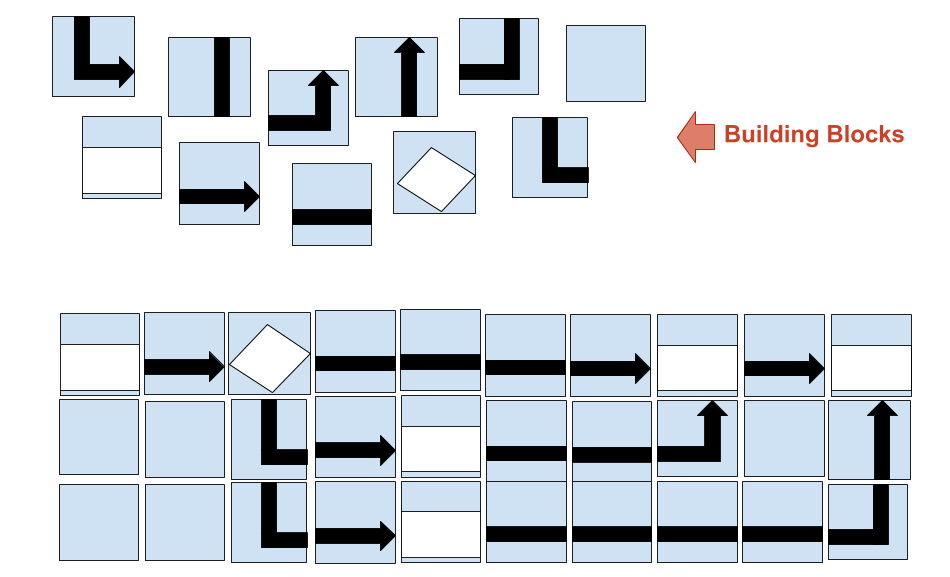
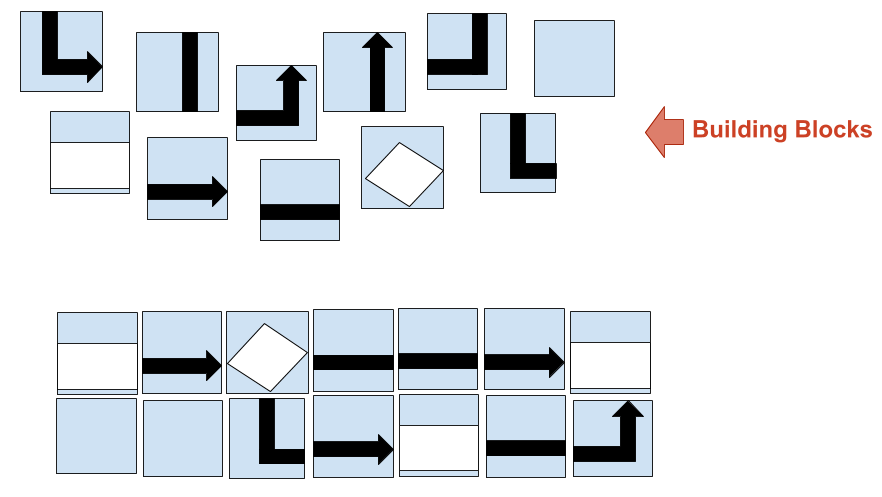
updated design approach diagram and description

diff --git a/src/utils/workflowVisUtils.ts b/src/utils/workflowVisUtils.ts
@@ -140,7 +140,7 @@ const addWorkflowStepToMatrix = (
     // we shift col 2 places to the right
     // Also need to consider if the step is primary. If it is primary, it has to be in the first place in col
     // TODO: Need to have a function for replace col type
-    // We also need to change the size of the matrix and shift all the 
+    // We also need to change the size of the matrix and shift all the nodes to the right and down
     let rowNum = 0;
     for (rowNum = 0; rowNum < col.length; rowNum += 1) {
         if (isPlaceholder(col[rowNum])) {

diff --git a/src/components/styles/workflowVis.module.css b/src/components/styles/workflowVis.module.css
@@ -4,6 +4,10 @@
 @import "./box.css";
 @import "./colors.css";
 
+/* TODO:
+Make grid-template-columns less manually generated.
+Instead of create .col1, .col2, ... classes, specify the col number and row number inline instead.
+*/
 .wrapper {
   display: grid;
   grid-template-columns: 

diff --git a/README.md b/README.md
@@ -39,7 +39,13 @@ The visualization component ([`WorkflowVis`](/src/components/WorkflowVis.tsx)) t
 `matrix` is created from `workflowVisData`. ([WorkflowVisContainer](/src/components/WorkflowVisContainer.tsx)) creates `matrix` as follows:
 
 1. Initialize a N x M `matrix`. N is longest path in the DAG (`workflowStepOrder` is pre-calculated for each node in the graph which provides the path of the node from the root node). M is calculated from the largest frequency of `workflowStepOrder`. `matrix` is initialized with `empty`.
-2. Populate `matrix` with nodes (BFS of on the `workflowVisData`). The column number of the node is `workflowStepOrder * 2`. The row number of the node is **`TBD`** (currently, the naive approach is implemented whereby each node is placed into the next empty spot in the column array). During this process, a hash map is created that maps `col #, row #` of the node is mapped to the `col #, row #` its sucessor nodes.
+2. Populate `matrix` with nodes (BFS of on the `workflowVisData`). The column number of the node is `workflowStepOrder * 2`. The row number of the node is determined as follows:
+
+    - Naive: `rowNum` is the first unoccupied
+    - Better: If no parent, `rowNum` is the first unoccupied. If has parent, `rowNum` is parent `rowNum`
+    - Even Better: If no parent, rowNum is the first unoccupied. If has parent, rowNum is parent rowNum but if that is occupied, then we shift col 2 places to the right.
+
+    currently, the naive approach is implemented whereby each node is placed into the next empty spot in the column array.  During this process, a hash map is created that maps `colNum, rowNum` of the node is mapped to the `colNum, rowNum`, its sucessor nodes.
 3. Populate `matrix` with [connectors](/src/components/connectors.tsx) using the hash map generated from the previous step.
 
 ### Limitations of this visualization engine
